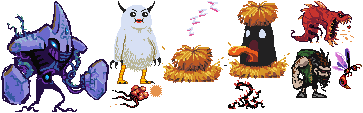
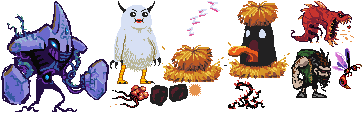
haystax now shoots tarballs

Changed region(s): [[0.3939, 0.7434, 0.5758, 0.9558]]

diff --git a/Src/Frogland.js b/Src/Frogland.js
@@ -40,6 +40,7 @@ var effectsController;
 var energyController;
 var audioController;
 var weaponController;
+var projectileController;
 var frauki;
 var fraukiSpawnX, fraukiSpawnY;
 
@@ -48,6 +49,7 @@ var energyText;
 var playerX, playerY;
 
 var previousCamX;
+
 
 Frogland.create = function() {
 
@@ -121,6 +123,7 @@ Frogland.create = function() {
     energyController = new EnergyController();
     audioController = new AudioController();
     weaponController = new WeaponController();
+    projectileController = new ProjectileController();
     timerUtil = new TimerUtil();
 
     game.camera.focusOnXY(frauki.body.x, frauki.body.y);
@@ -161,6 +164,7 @@ Frogland.update = function() {
     game.physics.arcade.collide(frauki, this.objectGroup, this.CollideFraukiWithObject, this.OverlapFraukiWithObject);
     game.physics.arcade.collide(this.objectGroup, collisionLayer);
     game.physics.arcade.collide(frauki, foregroundLayer, null, this.HideForeground);
+    game.physics.arcade.overlap(frauki, projectileController.projectiles, this.CollideFraukiWithProjectile);
 
     if(!!frauki.attackRect && frauki.attackRect.body.width != 0) {
         game.physics.arcade.overlap(frauki.attackRect, this.objectGroup, EnemyHit);
@@ -226,6 +230,17 @@ Frogland.OverlapFraukiWithObject = function(f, o) {
     }
 
     return true;
+};
+
+Frogland.CollideFraukiWithProjectile = function(f, p) {
+
+    console.log('tarred');
+
+    if(p.projType === 'tar') {
+        frauki.Hit(f, p.owningEnemy);
+    }
+
+    p.destroy();
 };
 
 Frogland.CollideFraukiWithObject = function(f, o) {

diff --git a/Src/Enemies/Haystax.js b/Src/Enemies/Haystax.js
@@ -6,13 +6,11 @@ Enemy.prototype.types['Haystax'] =  function() {
     this.animations.add('idle', ['Haystax/Idle0000'], 10, true, false);
     this.animations.add('up', ['Haystax/Idle0001'], 10, true, false);
 
-    /*
-    this.weight = 0.5;
-    this.energy = 5;
-    this.damage = 5;
+    this.weight = 1;
+    this.energy = 4;
+    this.damage = 3;
     this.baseStunDuration = 500;
-    this.poise = 10;
-    */
+    this.poise = 20;
     
 	this.updateFunction = function() {
 
@@ -38,15 +36,17 @@ Enemy.prototype.types['Haystax'] =  function() {
 	};
 
 	this.Spit = function() {
-		this.timers.SetTimer('spit', 1000 + (Math.random() * 500));
+		this.timers.SetTimer('spit', 1000 + (Math.random() * 1000));
 		this.state = this.PoppedUp;
+
+		projectileController.Tarball(this);
 	};
 
[1 lines of base64/hex data omitted]
 	this.Idling = function() {
 		this.PlayAnim('idle');
 
-		if(!this.PlayerIsNear(200) && this.PlayerIsNear(1000) && this.timers.TimerUp('spit_wait')) {
+		if(!this.PlayerIsNear(150) && this.PlayerIsNear(1000) && this.timers.TimerUp('spit_wait')) {
 			this.Spit();
 		}
 		

diff --git a/Src/ProjectileController.js b/Src/ProjectileController.js
@@ -1,0 +1,20 @@
+ProjectileController = function() {
+	this.projectiles = game.add.group();
+};
+
+ProjectileController.prototype.Tarball = function(e) {
+	var tar = game.add.sprite(e.body.center.x, e.body.center.y, 'EnemySprites');
+	game.physics.enable(tar, Phaser.Physics.ARCADE);
+	tar.animations.add('idle', ['Haystax/Tarball0000', 'Haystax/Tarball0001'], 14, true, false);
+	tar.play('idle');
+
+	//parabolic arc
+	var duration = 1.2;
+	tar.body.velocity.x = (frauki.body.center.x - tar.body.center.x) / duration;
+	tar.body.velocity.y = (frauki.body.center.y + -0.5 * game.physics.arcade.gravity.y * duration * duration - tar.body.center.y) / duration;
+
+	tar.projType = 'tar';
+	tar.owningEnemy = e;
+
+	this.projectiles.add(tar);
+};

diff --git a/index.html b/index.html
@@ -15,6 +15,7 @@
         <script type="text/javascript" src="Src/EffectsController.js"></script>
         <script type="text/javascript" src="Src/WeaponController.js"></script>
         <script type="text/javascript" src="Src/EnergyController.js"></script>
+        <script type="text/javascript" src="Src/ProjectileController.js"></script>
         <script type="text/javascript" src="Src/SpeechBubble.js"></script>
 
         <script type="text/javascript" src="Src/Frogland.js"></script>
